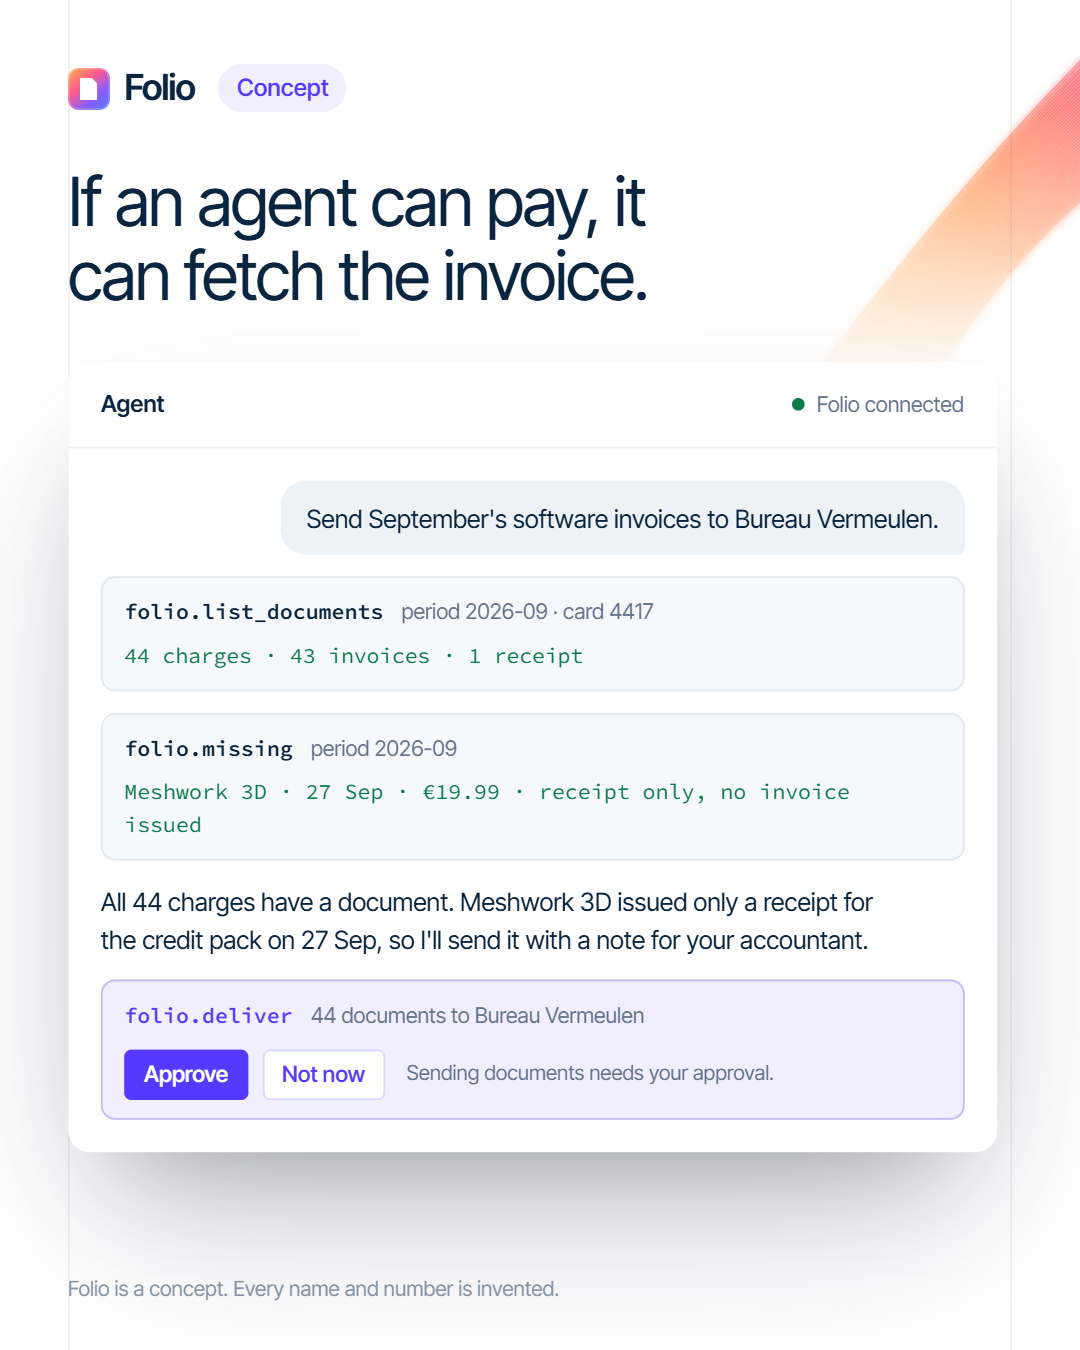
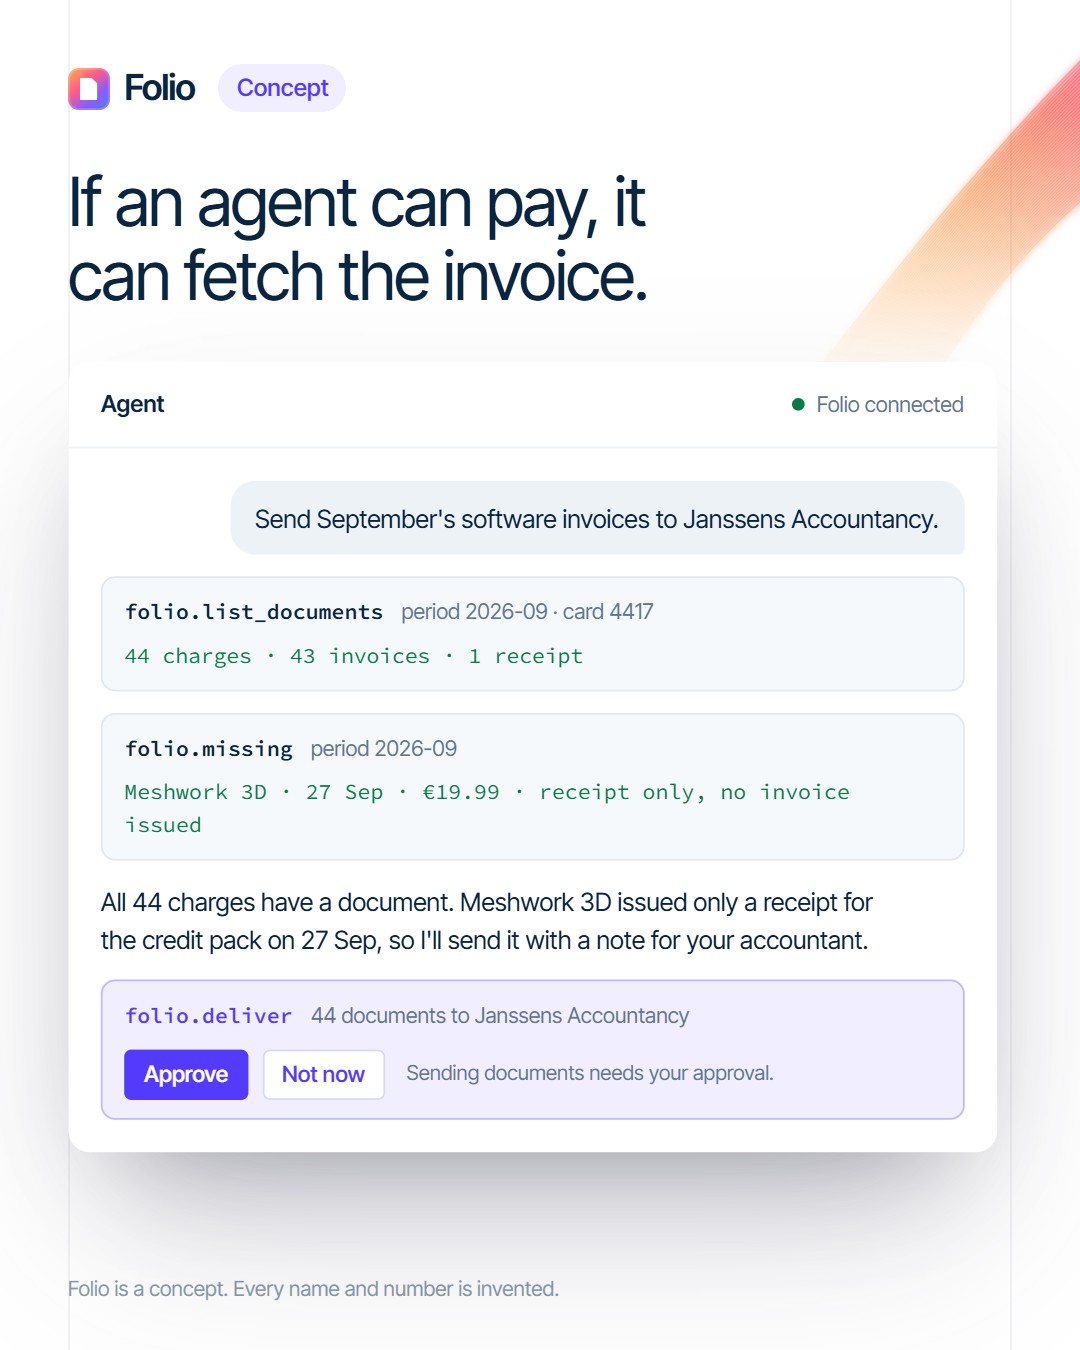
feat(folio): the accountant becomes Janssens Accountancy, its emails stack like a phone groups them, and it calls

Changed region(s): [[0.2444, 0.3733, 0.8556, 0.4044], [0.4278, 0.7467, 0.6417, 0.7778]]

diff --git a/components/folio/notification-stack.tsx b/components/folio/notification-stack.tsx
@@ -3,15 +3,15 @@ import { fill, problem } from "@/content/folio-copy";
 
 /*
  * What scattered invoices turn into: a lock screen that keeps filling up.
- * Mail from the accountant, getting shorter each time; a calendar block
- * that keeps moving; a vendor telling you the emailed link has expired; a
- * reminder nobody ticks off. Newest on top, the first polite request
- * collapsed into a pile at the bottom. Generic app glyphs, no brand marks.
+ * A missed call from the accountant; three emails from them, stacked the
+ * way a phone groups mail from one sender; a calendar block that keeps
+ * moving; a vendor saying the emailed link has expired; a reminder nobody
+ * ticks off. Newest on top. Generic app glyphs, no brand marks.
  */
 
-type App = "mail" | "calendar" | "reminders";
+type App = "mail" | "calendar" | "reminders" | "phone";
 
-const APP_NAME: Record<App, string> = { mail: "Mail", calendar: "Calendar", reminders: "Reminders" };
+const APP_NAME: Record<App, string> = { mail: "Mail", calendar: "Calendar", reminders: "Reminders", phone: "Phone" };
 
 const ICON: Record<App, ReactNode> = {
   mail: (
@@ -34,12 +34,23 @@ const ICON: Record<App, ReactNode> = {
       <path d="M5.6 4h6M5.6 7.2h6M5.6 10.4h6" stroke="#fff" strokeWidth="1.4" strokeLinecap="round" />
     </svg>
   ),
+  phone: (
+    <svg width="14" height="14" viewBox="0 0 14 14" aria-hidden="true">
+      <path
+        d="M4.2 1.8 5.6 4.2c.2.4.1.9-.2 1.2l-.8.8a7.4 7.4 0 0 0 3.2 3.2l.8-.8c.3-.3.8-.4 1.2-.2l2.4 1.4c.4.2.6.7.4 1.1l-.4 1c-.3.7-1 1.1-1.8 1A10 10 0 0 1 1.1 3.6c-.1-.8.3-1.5 1-1.8l1-.4c.4-.2.9 0 1.1.4Z"
+        fill="#fff"
+      />
+    </svg>
+  ),
 };
 
-function Notice({ n, pile = false }: { n: (typeof problem.notifications)[number]; pile?: boolean }) {
+type Item = (typeof problem.notifications)[number];
+
+function Notice({ n }: { n: Item }) {
   const app = n.app as App;
+  const stacked = n.stack.length > 0;
   return (
-    <li className={`fo-notif__item${pile ? " is-pile" : ""}`}>
+    <li className={`fo-notif__item${stacked ? " is-stack" : ""}${app === "phone" ? " is-call" : ""}`}>
       <div className="fo-notif__card">
         <div className="fo-notif__meta">
           <span className={`fo-notif__icon fo-notif__icon--${app}`}>{ICON[app]}</span>
@@ -49,24 +60,26 @@ function Notice({ n, pile = false }: { n: (typeof problem.notifications)[number]
         <strong className="fo-notif__title">{fill(n.title)}</strong>
         {n.subject && <span className="fo-notif__subject">{n.subject}</span>}
         <p className="fo-notif__body">{fill(n.body)}</p>
+        {stacked && (
+          <p className="fo-notif__more">
+            {n.stack.length} more from {fill(n.title)}
+          </p>
+        )}
       </div>
     </li>
   );
 }
 
 export function NotificationStack({ max }: { max?: number }) {
-  const all = problem.notifications;
-  const top = all.slice(0, -1).slice(0, max ?? all.length);
-  const first = all[all.length - 1];
+  const shown = problem.notifications.slice(0, max ?? problem.notifications.length);
 
   return (
     <div className="fo-notif fo-mock" data-mock="notifications">
       <div className="fo-notif__wall">
         <ol className="fo-notif__list" aria-label="Notifications">
-          {top.map((n, i) => (
+          {shown.map((n, i) => (
             <Notice n={n} key={i} />
           ))}
-          <Notice n={first} pile />
         </ol>
       </div>
     </div>

diff --git a/content/folio-copy.ts b/content/folio-copy.ts
@@ -144,15 +144,25 @@ export const problem = {
   payCaption: "One approval, any vendor.",
   collectTitle: "Collecting the invoices",
   collectCaption: "Three weeks of next week.",
-  /* Newest first, the way a lock screen stacks them. The last one is the
-     accountant's first, polite request, collapsed under everything since. */
+  /* Newest first, the way a lock screen shows them. The accountant's three
+     emails form one stack, as a phone groups mail from one sender; the
+     first, polite request sits at the bottom of it. */
   notifications: [
     {
-      app: "mail",
+      app: "phone",
       when: "now",
+      title: "Missed call",
+      subject: "",
+      body: "{accountant}",
+      stack: [] as string[],
+    },
+    {
+      app: "mail",
+      when: "12m ago",
       title: "{accountant}",
       subject: "Re: Re: Re: September invoices",
       body: "Merel, we really need them today to file your VAT return on time.",
+      stack: ["Re: Re: September invoices", "September invoices"],
     },
     {
       app: "calendar",
@@ -160,6 +170,7 @@ export const problem = {
       title: "Do the invoices",
       subject: "",
       body: "16:00 to 16:30, moved for the fourth time",
+      stack: [] as string[],
     },
     {
       app: "mail",
@@ -167,13 +178,7 @@ export const problem = {
       title: "Lumen Voice",
       subject: "Your invoice link has expired",
       body: "Sign in to view your billing history.",
-    },
-    {
-      app: "mail",
-      when: "1w ago",
-      title: "{accountant}",
-      subject: "Re: Re: September invoices",
-      body: "Friendly nudge: I'm still missing {docs} documents.",
+      stack: [] as string[],
     },
     {
       app: "reminders",
@@ -181,13 +186,7 @@ export const problem = {
       title: "Download invoices",
       subject: "",
       body: "{vendors} billing pages, overdue",
-    },
-    {
-      app: "mail",
-      when: "3w ago",
-      title: "{accountant}",
-      subject: "September invoices",
-      body: "Hi Merel, could you send me September's invoices when you get a chance?",
+      stack: [] as string[],
     },
   ],
   facts: [

diff --git a/components/folio/mocks.css b/components/folio/mocks.css
@@ -871,37 +871,55 @@
   color: var(--fo-ink-2);
 }
 
-/* The first request, buried: the card sits on two more behind it. */
-.fo-notif__item.is-pile {
-  position: relative;
-  margin-bottom: 12px;
+.fo-notif__icon--phone { background: linear-gradient(180deg, #4cd964, #28b446); }
+
+.fo-notif__item.is-call .fo-notif__title {
+  color: var(--fo-red);
 }
 
-.fo-notif__item.is-pile::before,
-.fo-notif__item.is-pile::after {
+.fo-notif__more {
+  margin: 6px 0 0;
+  font-size: 12px;
+  color: var(--fo-ink-3);
+}
+
+/* A group of mail from one sender, collapsed the way a phone stacks it:
+   the newest card on top, two narrower cards showing underneath. */
+.fo-notif__item.is-stack {
+  position: relative;
+  isolation: isolate;
+  margin-bottom: 16px;
+}
+
+.fo-notif__item.is-stack .fo-notif__card {
+  z-index: 2;
+}
+
+/* The cards underneath start just inside the top card's rounded bottom,
+   so through its frosted glass nothing shows but the edges below it. */
+.fo-notif__item.is-stack::before,
+.fo-notif__item.is-stack::after {
   content: "";
   position: absolute;
+  top: calc(100% - 4px);
+  border-radius: 0 0 12px 12px;
+  box-shadow: 0 4px 8px -4px rgba(10, 37, 64, 0.25);
+}
+
+.fo-notif__item.is-stack::before {
+  z-index: 1;
   left: 10px;
   right: 10px;
-  height: 100%;
-  border-radius: 14px;
+  height: 12px;
+  background: rgba(255, 255, 255, 0.8);
+}
+
+.fo-notif__item.is-stack::after {
+  z-index: 0;
+  left: 22px;
+  right: 22px;
+  height: 20px;
   background: rgba(255, 255, 255, 0.55);
-  box-shadow: 0 1px 2px rgba(10, 37, 64, 0.05);
-}
-
-.fo-notif__item.is-pile::before {
-  bottom: -6px;
-}
-
-.fo-notif__item.is-pile::after {
-  left: 20px;
-  right: 20px;
-  bottom: -12px;
-  background: rgba(255, 255, 255, 0.35);
-}
-
-.fo-notif__item.is-pile .fo-notif__card {
-  opacity: 0.92;
 }
 
 /* ── The permission table ───────────────────────────────────────────── */

diff --git a/content/folio.ts b/content/folio.ts
@@ -69,7 +69,7 @@ export const persona = {
   city: "Ghent",
   country: "Belgium",
   vat: "BE 0745.218.360",
-  accountant: "Bureau Vermeulen",
+  accountant: "Janssens Accountancy",
   period: "September 2026",
   periodShort: "Sep 2026",
 };

diff --git a/components/folio/frames.tsx b/components/folio/frames.tsx
@@ -49,7 +49,7 @@ const portrait: Record<string, { title: string; scale: number; visual: ReactNode
   },
   flow: {
     title: copy.flow,
-    scale: 0.74,
+    scale: 0.78,
     visual: <NotificationStack max={4} />,
   },
   endpoint: {
